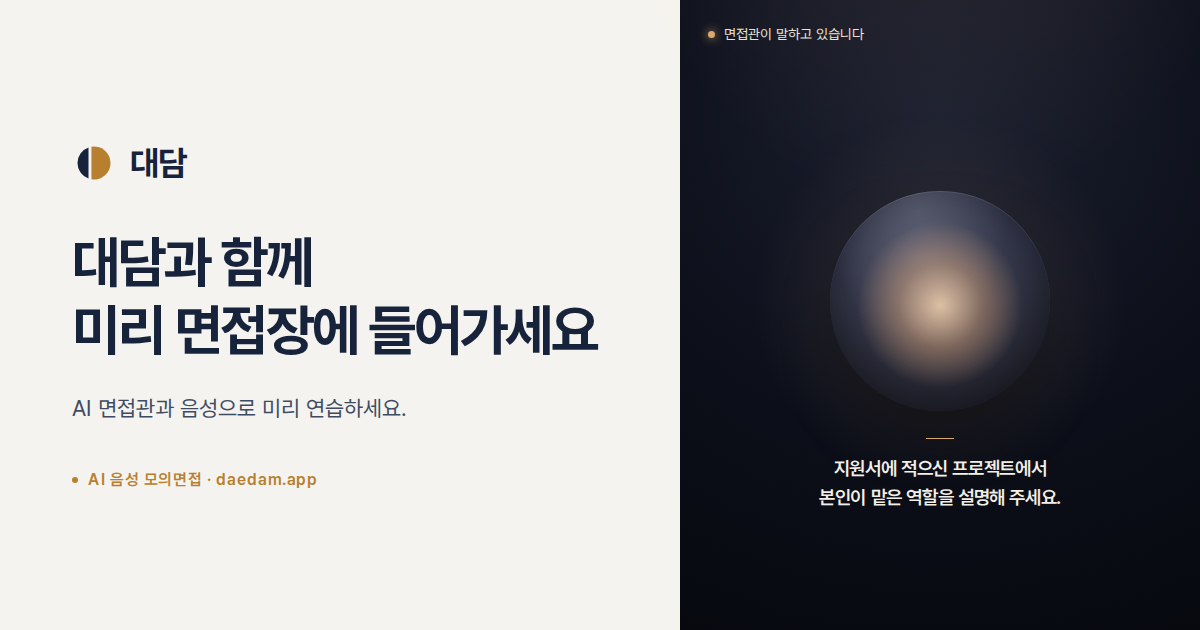
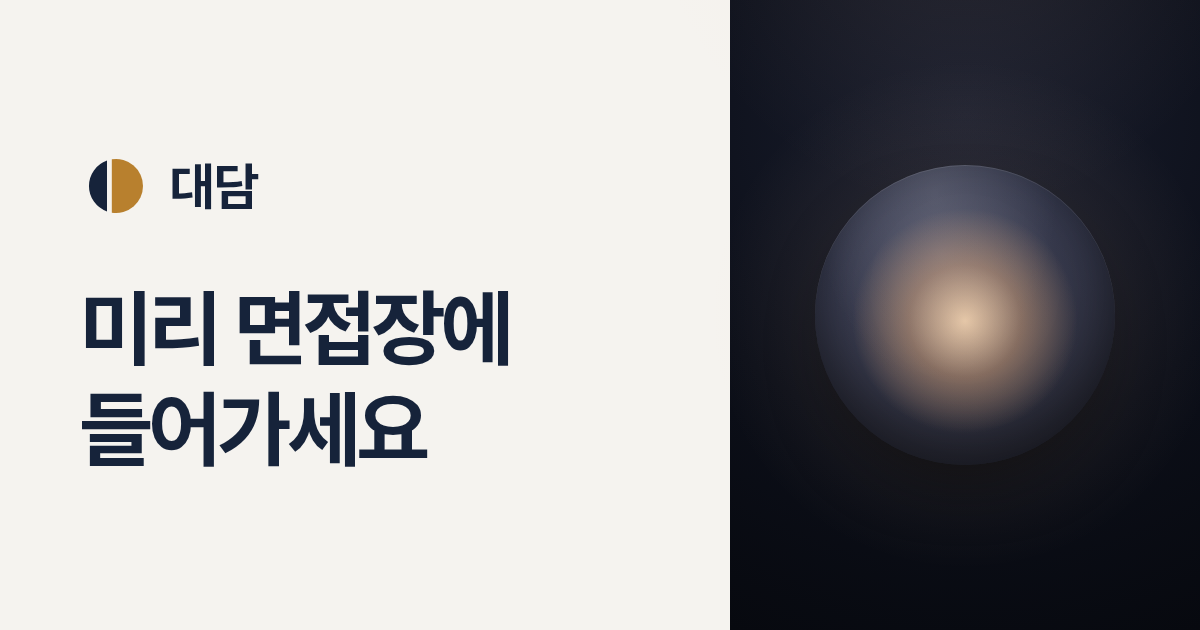
fix(web): 미리보기 카드를 휴대폰 크기에 맞게 단순화
카카오톡 카드는 240px 폭이라 작은 문구가 읽히지 않았다. 로고·큰 제목·구체만 남긴다. 탭 제목과 미리보기 제목은 "대담 - AI 모의면접".

diff --git a/web/index.html b/web/index.html
@@ -3,12 +3,12 @@
   <head>
     <meta charset="UTF-8" />
     <meta name="viewport" content="width=device-width, initial-scale=1.0" />
-    <title>대담</title>
+    <title>대담 - AI 모의면접</title>
     <meta name="description" content="AI 면접관과 음성으로 미리 연습하세요." />
     <!-- 링크 미리보기(카카오톡·슬랙·문자). 이미지는 public/og.png(1200×630) — 절대 주소여야 한다. -->
     <meta property="og:type" content="website" />
     <meta property="og:site_name" content="대담" />
-    <meta property="og:title" content="대담 — AI 음성 모의면접" />
+    <meta property="og:title" content="대담 - AI 모의면접" />
     <meta property="og:description" content="AI 면접관과 음성으로 미리 연습하세요." />
     <meta property="og:url" content="https://daedam.app/" />
     <meta property="og:image" content="https://daedam.app/og.png" />
@@ -16,7 +16,7 @@
     <meta property="og:image:height" content="630" />
     <meta property="og:locale" content="ko_KR" />
     <meta name="twitter:card" content="summary_large_image" />
-    <meta name="twitter:title" content="대담 — AI 음성 모의면접" />
+    <meta name="twitter:title" content="대담 - AI 모의면접" />
     <meta name="twitter:description" content="AI 면접관과 음성으로 미리 연습하세요." />
     <meta name="twitter:image" content="https://daedam.app/og.png" />
     <!-- 탭·홈 화면 아이콘. 심볼 C3(design-system/assets/logo). SVG를 못 쓰는
